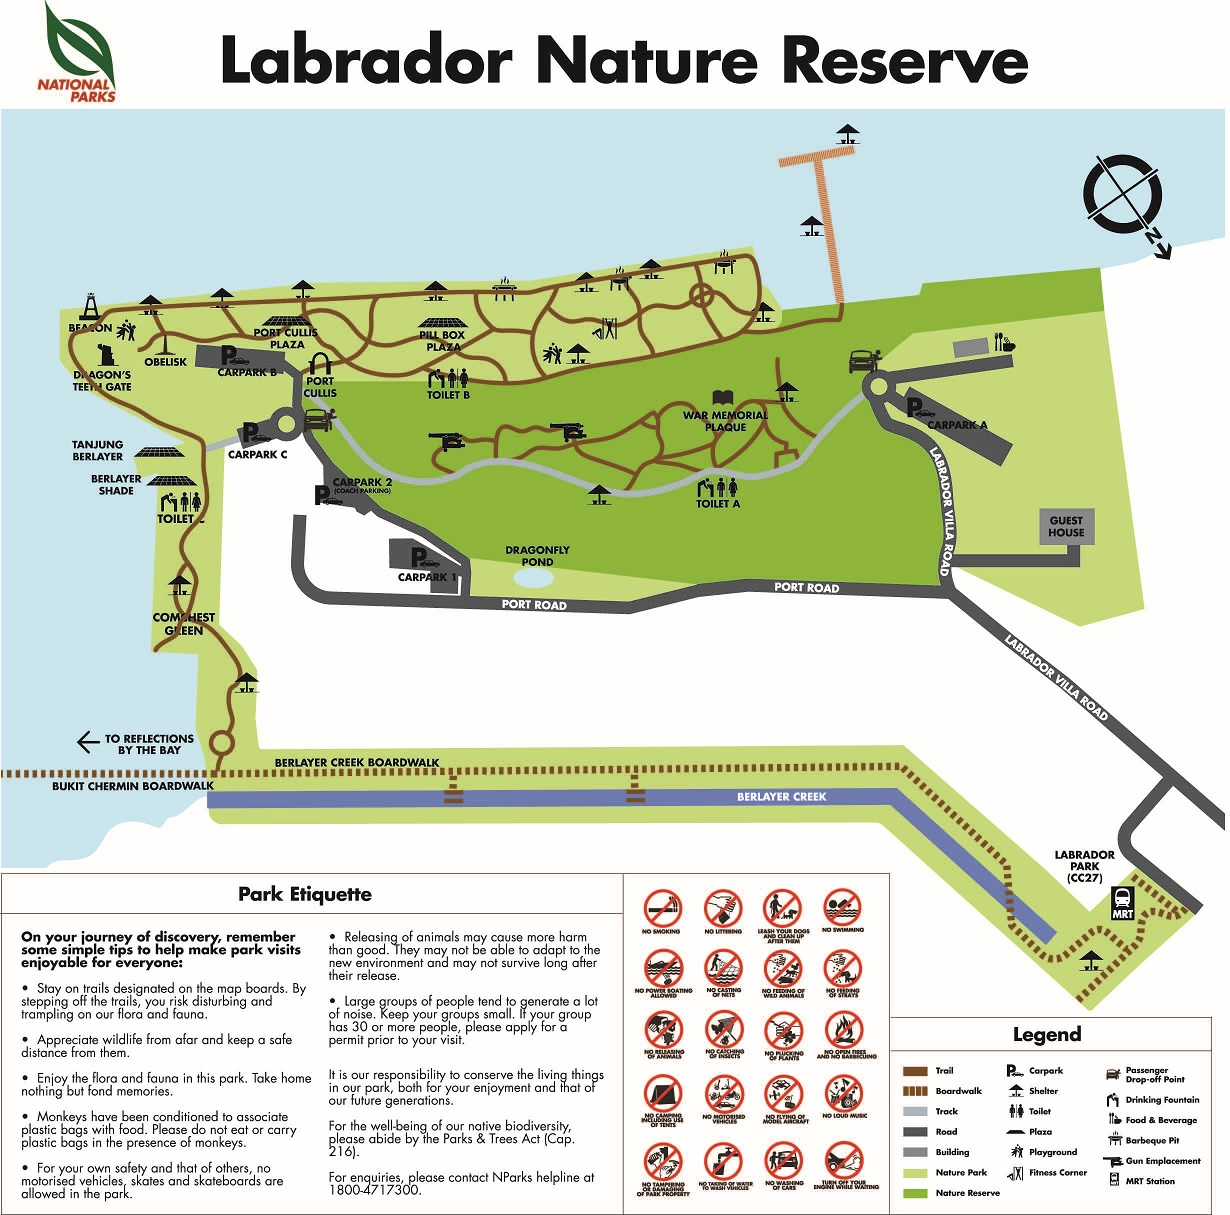
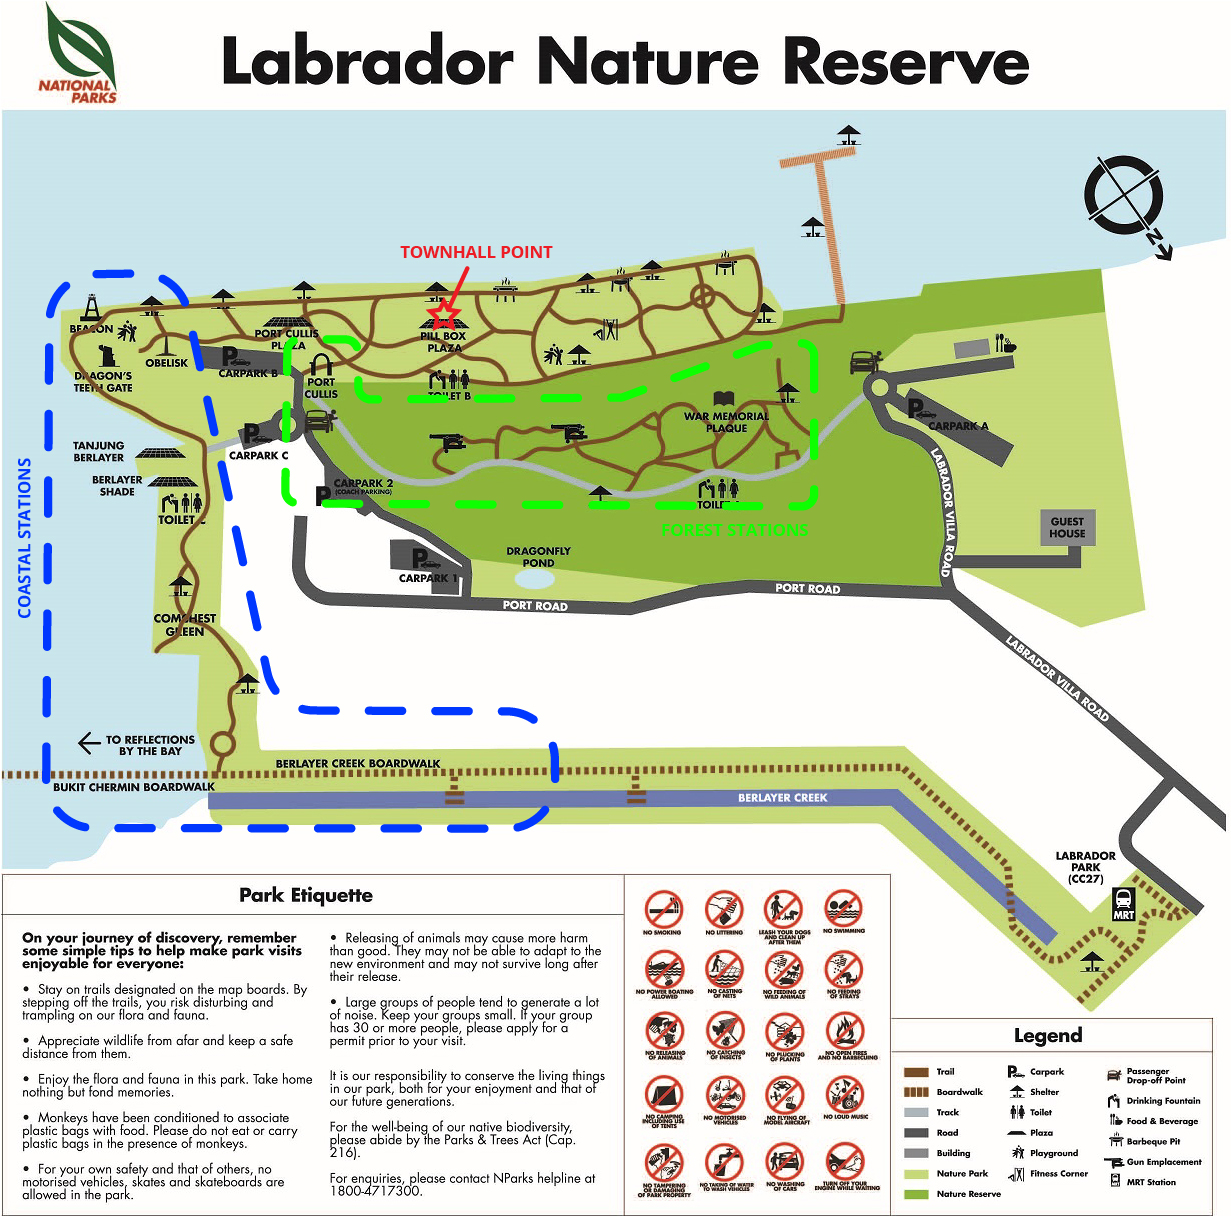
Fixed Map & Updated Ending Coordinates

diff --git a/main.py b/main.py
@@ -157,15 +157,16 @@ async def send_next_clue(
             f"<b>Clue for Station {(station+1) if station<=4 else station}:</b> \n\n{clue}",
             parse_mode=constants.ParseMode.HTML,
         )
+        await context.bot.send_photo(chat_id=chat_id, photo="LabradorParkMap.jpg")
 
     else:
         # If no more stations are left, inform them that they are complete!
         await context.bot.send_message(
             chat_id,
-            "Please make your way back to the point on the map below for the closing address.",
+            "Please make your way back to the Townhall point on the map below for the closing address.",
         )
 
-        await context.bot.send_location(chat_id, 1.2637096977222826, 103.80381112878558)
+        await context.bot.send_location(chat_id, 1.264494, 103.803222)
         logger.info(str(update.message.from_user.username) + " has completed the game!")
 
 
@@ -196,10 +197,10 @@ async def confirm_completion(
 
     if station >= len(clue_matrix[team_number - 1]) - 1:
         await update.message.reply_text(
-            "Congratulations! You have completed all the stations! Please make your way back to the point on the map below for the closing address.",
+            "Congratulations! You have completed all the stations! Please make your way back to the Townhall point on the map below for the closing address.",
             reply_markup=ReplyKeyboardRemove(),
         )
-        await context.bot.send_location(chat_id, 1.2637096977222826, 103.80381112878558)
+        await context.bot.send_location(chat_id, 1.264494, 103.803222)
         logger.info(str(update.message.from_user.username) + " has completed the game!")
         return ConversationHandler.END
 
